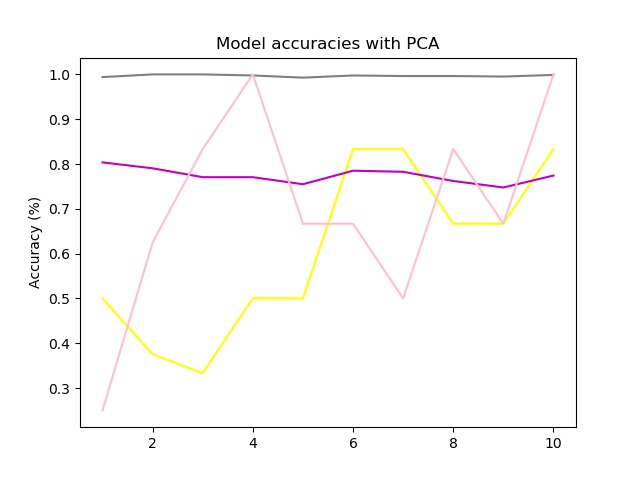
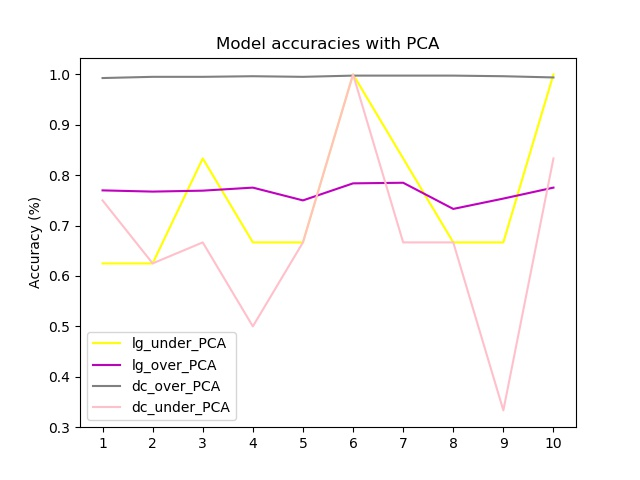
Multiple ROC Curves plots

diff --git a/class_imbalance.py b/class_imbalance.py
@@ -62,7 +62,6 @@ class ClassImbalance:
             item = self.data[index]
 
             oversampled_data = np.vstack((oversampled_data, item))
-        
         return oversampled_data
 
     def euclidean_distance(self, point1, point2):
@@ -137,6 +136,7 @@ class ClassImbalance:
         print("Logisitic Regression - Accuracy over sampled data without PCA: ", accuracy)
         print()
         self.metrics(pred, y_test)
+        # self.roc_curve_acc(y_test, pred, "Logisitic Regression oversampled data without PCA:")
         print()
         
         features = np.vstack((x_train, x_test))
@@ -144,7 +144,7 @@ class ClassImbalance:
 
         cross_val_acc = self.cross_validation(reg, features, labels)
        
-        return cross_val_acc
+        return cross_val_acc, y_test, pred
 
     def logistic_regression_undersampled(self):
         data = self.pre_process_undersample(4110, "negative")
@@ -162,8 +162,10 @@ class ClassImbalance:
         labels = np.vstack((y_train[:, None], y_test[:, None]))
 
         cross_val_acc = self.cross_validation(reg, features, labels)
+
+        # self.roc_curve_acc(y_test, pred, "Logisitic Regression undersampled data without PCA:")
        
-        return cross_val_acc
+        return cross_val_acc, y_test, pred
 
     def logistic_regression_oversampled_PCA(self):
         data = self.pre_process_oversample(4110, "positive")
@@ -182,8 +184,9 @@ class ClassImbalance:
         labels = np.vstack((y_train[:, None], y_test[:, None]))
 
         cross_val_acc = self.cross_validation(reg, features, labels)
-       
-        return cross_val_acc
+        # self.roc_curve_acc(y_test, pred, "Logisitic Regression oversampled data - PCA:")
+
+        return cross_val_acc, y_test, pred
 
     def logistic_regression_undersampled_PCA(self):
         data = self.pre_process_undersample(4110, "negative")
@@ -201,8 +204,8 @@ class ClassImbalance:
         labels = np.vstack((y_train[:, None], y_test[:, None]))
 
         cross_val_acc = self.cross_validation(reg, features, labels)
-       
-        return cross_val_acc
+        # self.roc_curve_acc(y_test, pred, "Logisitic Regression undersampled data with PCA:")
+        return cross_val_acc, y_test, pred
 
     def decision_tree_oversampled(self):
         data = self.pre_process_oversample(4110, "positive")
@@ -221,7 +224,7 @@ class ClassImbalance:
 
         cross_val_acc = self.cross_validation(tree, features, labels)
        
-        return cross_val_acc
+        return cross_val_acc, y_test, pred
 
     def decision_tree_undersampled(self):
         data = self.pre_process_undersample(4110, "negative")
@@ -240,7 +243,7 @@ class ClassImbalance:
 
         cross_val_acc = self.cross_validation(tree, features, labels)
        
-        return cross_val_acc
+        return cross_val_acc, y_test, pred
 
     def decision_tree_oversampled_PCA(self):
         data = self.pre_process_oversample(4110, "positive")
@@ -259,7 +262,7 @@ class ClassImbalance:
 
         cross_val_acc = self.cross_validation(tree, features, labels)
        
-        return cross_val_acc
+        return cross_val_acc, y_test, pred
 
     def decision_tree_undersampled_PCA(self):
         data = self.pre_process_undersample(4110, "negative")
@@ -278,7 +281,7 @@ class ClassImbalance:
 
         cross_val_acc = self.cross_validation(tree, features, labels)
        
-        return cross_val_acc
+        return cross_val_acc, y_test, pred
 
     def plot_imbalance(self):
         data = self.data
@@ -385,7 +388,7 @@ class ClassImbalance:
         print("Accuracy: ",accuracy)
         print("Confusion matrix: ", confusion_matrix)
         # print("Recall: ",recall)
-        self.roc_curve_acc(true_labels, predictions, name)
+        # self.roc_curve_acc(true_labels, predictions, name)
         return
 
     def cross_validation(self,algorithm, features, labels):
@@ -394,31 +397,28 @@ class ClassImbalance:
         print("Cross validation accuracy: " , accuracy_percent)
         return accuracy
 
-    def roc_curve_acc(self, true_labels, predictions, name):
-        # false_positive_rate, true_positive_rate, thresholds = metrics.roc_curve(Y_test, Y_pred)
-        # roc_auc = metrics.auc(false_positive_rate, true_positive_rate)
-        # plt.title('ROC Curve')
-        # plt.plot(false_positive_rate, true_positive_rate, color='darkorange',label='AUC = %0.3f'%(roc_auc))
-        # plt.legend(loc='lower right')
-        # plt.plot([0,1],[0,1],'b--')
-        # plt.ylim([-0.1, 1.1])
-        # plt.xlim([-0.1, 1.1])
-        # plt.ylabel('True Positive Rate')
-        # plt.xlabel('False Positive Rate')
-        # plt.tight_layout()
-        # plt.title("ROC Curve")   
-        # plt.savefig("ROC Curve " + name + ".jpeg")
-        # plt.show()
+    # def roc_curve_acc(self, true_labels, predictions, name, col1, col2):
+    #     encoder = LabelEncoder()
+    #     true_labels_new = encoder.fit_transform(true_labels)
+    #     predictions_new = encoder.fit_transform(predictions)
+    #     false_positive_rate, true_positive_rate, thresholds = metrics.roc_curve(true_labels_new,predictions_new, pos_label=1)
+    #     roc_auc = metrics.auc(false_positive_rate, true_positive_rate)
+    #     plt.title('ROC Curve')
+    #     #GRAPH DATA
+    #     #plt.figure()
+    #     plt.xlabel('False Positive Rate')
+    #     plt.ylabel('True Positive Rate')
+    #     plt.plot([0, 1], [0, 1], color=col1, linestyle='--')
+    #     plt.xlim([0.0, 1.0])
+    #     plt.ylim([0.0, 1.05])
+    #     plt.title("ROC Curve")
+    #     plt.plot(false_positive_rate, true_positive_rate, color=col2, lw=2, label= name + "area = %0.2f)" % roc_auc)
+    #     plt.legend(loc="lower right")
+    #     plt.savefig("ROC Curve " + name + ".jpeg")
+    #     plt.show()
+    #     return
 
-        # skplt.metrics.plot_roc_curve(true_labels, predictions)
-        # plt.show()
-        return
-
-    def plot_multiple_roc_curves(self):
-        return
-    
-
-    def plot_multiple_accuracies(self):
+    def plot_metrics(self):
         lg_over = abalone.logistic_regression_oversampled()
         lg_over_PCA = abalone.logistic_regression_oversampled_PCA()
         lg_under = abalone.logistic_regression_undersampled()
@@ -428,8 +428,8 @@ class ClassImbalance:
         dc_under = abalone.decision_tree_undersampled()
         dc_under_PCA = abalone.decision_tree_undersampled_PCA()
 
-        accuracies = [lg_over,lg_under, dc_over, dc_under]
-        accuracies_labels = ["lg_over","lg_under", "dc_over", "dc_under"]
+        accuracies = [lg_over[0],lg_under[0], dc_over[0], dc_under[0]]
+        accuracies_labels = ["lg_over","lg_under", "dtc_over", "dtc_under"]
         col = ["yellow", "m", "grey", "pink", "blue", "red", "black", "brown", "green", "cyan"]
         seq = [1, 2, 3, 4, 5, 6, 7, 8, 9, 10]
         fig, ax = plt.subplots()
@@ -438,13 +438,13 @@ class ClassImbalance:
         
         plt.ylabel("Accuracy (%)")
         plt.title("Model accuracies")
-        plt.savefig("Model accuracies for undersampling and oversampling unsing Logistic Reg and Decision tree.jpeg")
         plt.xticks(seq)
         plt.legend()
+        plt.savefig("Model accuracies for undersampling and oversampling unsing Logistic Reg and Decision tree.jpeg")    
         plt.show()
 
-        accuracies = [lg_under_PCA, lg_over_PCA, dc_over_PCA, dc_under_PCA]
-        accuracies_labels = ["lg_under_PCA", "lg_over_PCA", "dc_over_PCA", "dc_under_PCA"]
+        accuracies = [lg_under_PCA[0], lg_over_PCA[0], dc_over_PCA[0], dc_under_PCA[0]]
+        accuracies_labels = ["lg_under_PCA", "lg_over_PCA", "dtc_over_PCA", "dtc_under_PCA"]
         col = ["yellow", "m", "grey", "pink", "blue", "red", "black", "brown", "green", "cyan"]
         fig, ax = plt.subplots()
         for i in range(4):
@@ -452,9 +452,35 @@ class ClassImbalance:
         
         plt.ylabel("Accuracy (%)")
         plt.title("Model accuracies with PCA")
-        plt.savefig("Model accuracies for undersampling and oversampling unsing Logistic Reg and Decision tree with PCA.jpeg")
         plt.xticks(seq)
         plt.legend()
+        plt.savefig("Model accuracies for undersampling and oversampling unsing Logistic Reg and Decision tree with PCA.jpeg")
+        plt.show()
+
+        true_labels = [lg_over[1],lg_under[1], dc_over[1], dc_under[1]]
+        predictions = [lg_over[2],lg_under[2], dc_over[2], dc_under[2]]
+        col1 = ["yellow", "m", "grey", "pink"]
+        col2 = ["blue", "red", "black", "brown", "green", "cyan"]
+        accuracies_labels = ["lg_over","lg_under", "dtc_over", "dtc_under"]
+
+        encoder = LabelEncoder()
+
+        for i in range(4):
+            true_labels_new = encoder.fit_transform(true_labels[i])
+            predictions_new = encoder.fit_transform(predictions[i])
+            false_positive_rate, true_positive_rate, thresholds = metrics.roc_curve(true_labels_new,predictions_new, pos_label=1)
+            roc_auc = metrics.auc(false_positive_rate, true_positive_rate)
+            #GRAPH DATA
+            #plt.figure()
+            plt.xlabel('False Positive Rate')
+            plt.ylabel('True Positive Rate')
+            plt.plot([0, 1], [0, 1], color=col1[i], linestyle='--')
+            plt.xlim([0.0, 1.0])
+            plt.ylim([0.0, 1.05])
+            plt.plot(false_positive_rate, true_positive_rate, color=col2[i], lw=2, label= accuracies_labels[i] + " area = %0.2f)" % roc_auc)
+        plt.title("ROC Curve showing various classifiers")
+        plt.legend(loc="lower right")
+        plt.savefig("ROC Curve multiple curves.jpeg")
         plt.show()
 
         return
@@ -477,4 +503,4 @@ abalone.read_data("/Users/oyinlola/Desktop/MSc Data Science/SCC403 - Data Mining
 # abalone.decision_tree_undersampled()
 # abalone.decision_tree_undersampled_PCA()
 
-abalone.plot_multiple_accuracies()
+abalone.plot_metrics()
